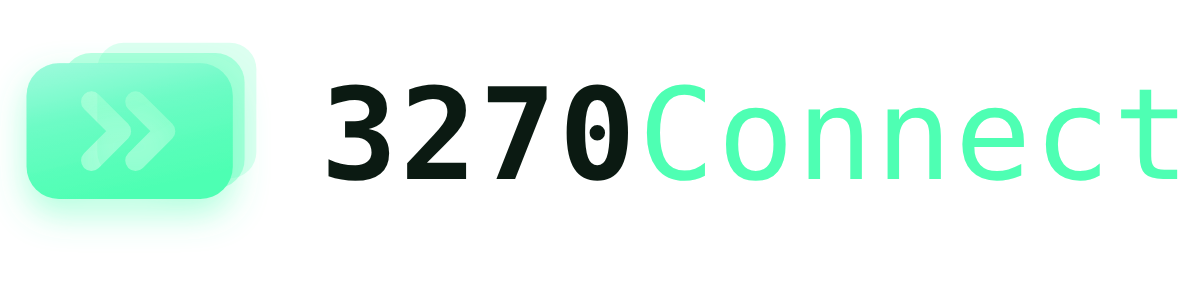
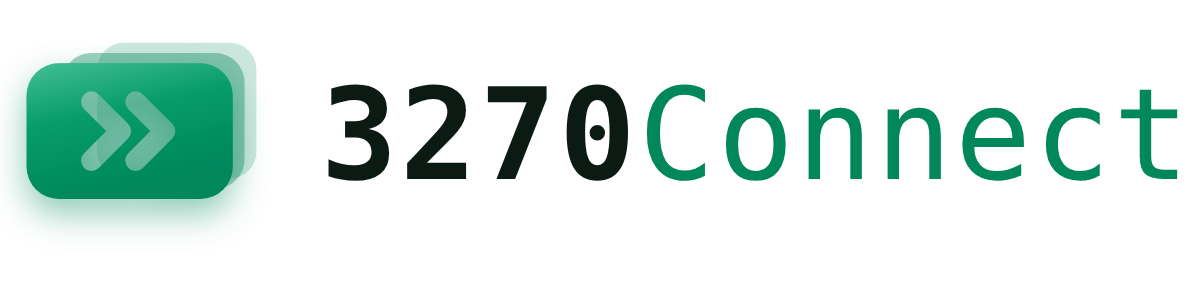
Use the on-light mark where the README is read on white
The README lockup was unreadable on github.com in light mode: the wordmark's
"3270" is near-white ink meant for a dark page, and phosphor green sits at about
1.4:1 against #ffffff, so the mark washed out beside it.

brand/ now carries the on-light pair from the shared kit, drawn in the daylight
palette's accent, and the README ships both through <picture> so the reader's
theme decides. The light file is the <img> fallback, since a renderer that
ignores <picture> is far more likely to be showing a white page.

Claude-Session: https://claude.ai/code/session_01EKJpU2244VQsejCirtXfRk

Changed region(s): [[0.0, 0.1413, 0.2158, 0.7633], [0.5242, 0.2827, 0.9867, 0.6502]]

diff --git a/README.md b/README.md
@@ -1,4 +1,7 @@
-<img src="brand/3270connect-lockup-600.png" alt="3270Connect" width="300">
+<picture>
+  <source media="(prefers-color-scheme: dark)" srcset="brand/3270connect-lockup-600.png">
+  <img alt="3270Connect" src="brand/3270connect-lockup-light-600.png" width="300">
+</picture>
 
 Scripted 3270 workflows that replay human online integration at unlimited scale —
 a command-line utility, an API server, and a live operations console served
@@ -170,6 +173,6 @@ Run `.\update-binaries.ps1` from the repo root after you update `binaries/linux`
 ## Brand
 
 The 3270Connect mark and its lockups live in [`brand/`](brand/) — SVG, PNG and
-`.ico`. They are generated from the shared kit in the
+`.ico`, in a dark-ground and a light-ground pair. They are generated from the shared kit in the
 [3270io](https://github.com/3270io/3270io) repo (`brand/build.mjs`); regenerate
 there rather than editing these by hand.
